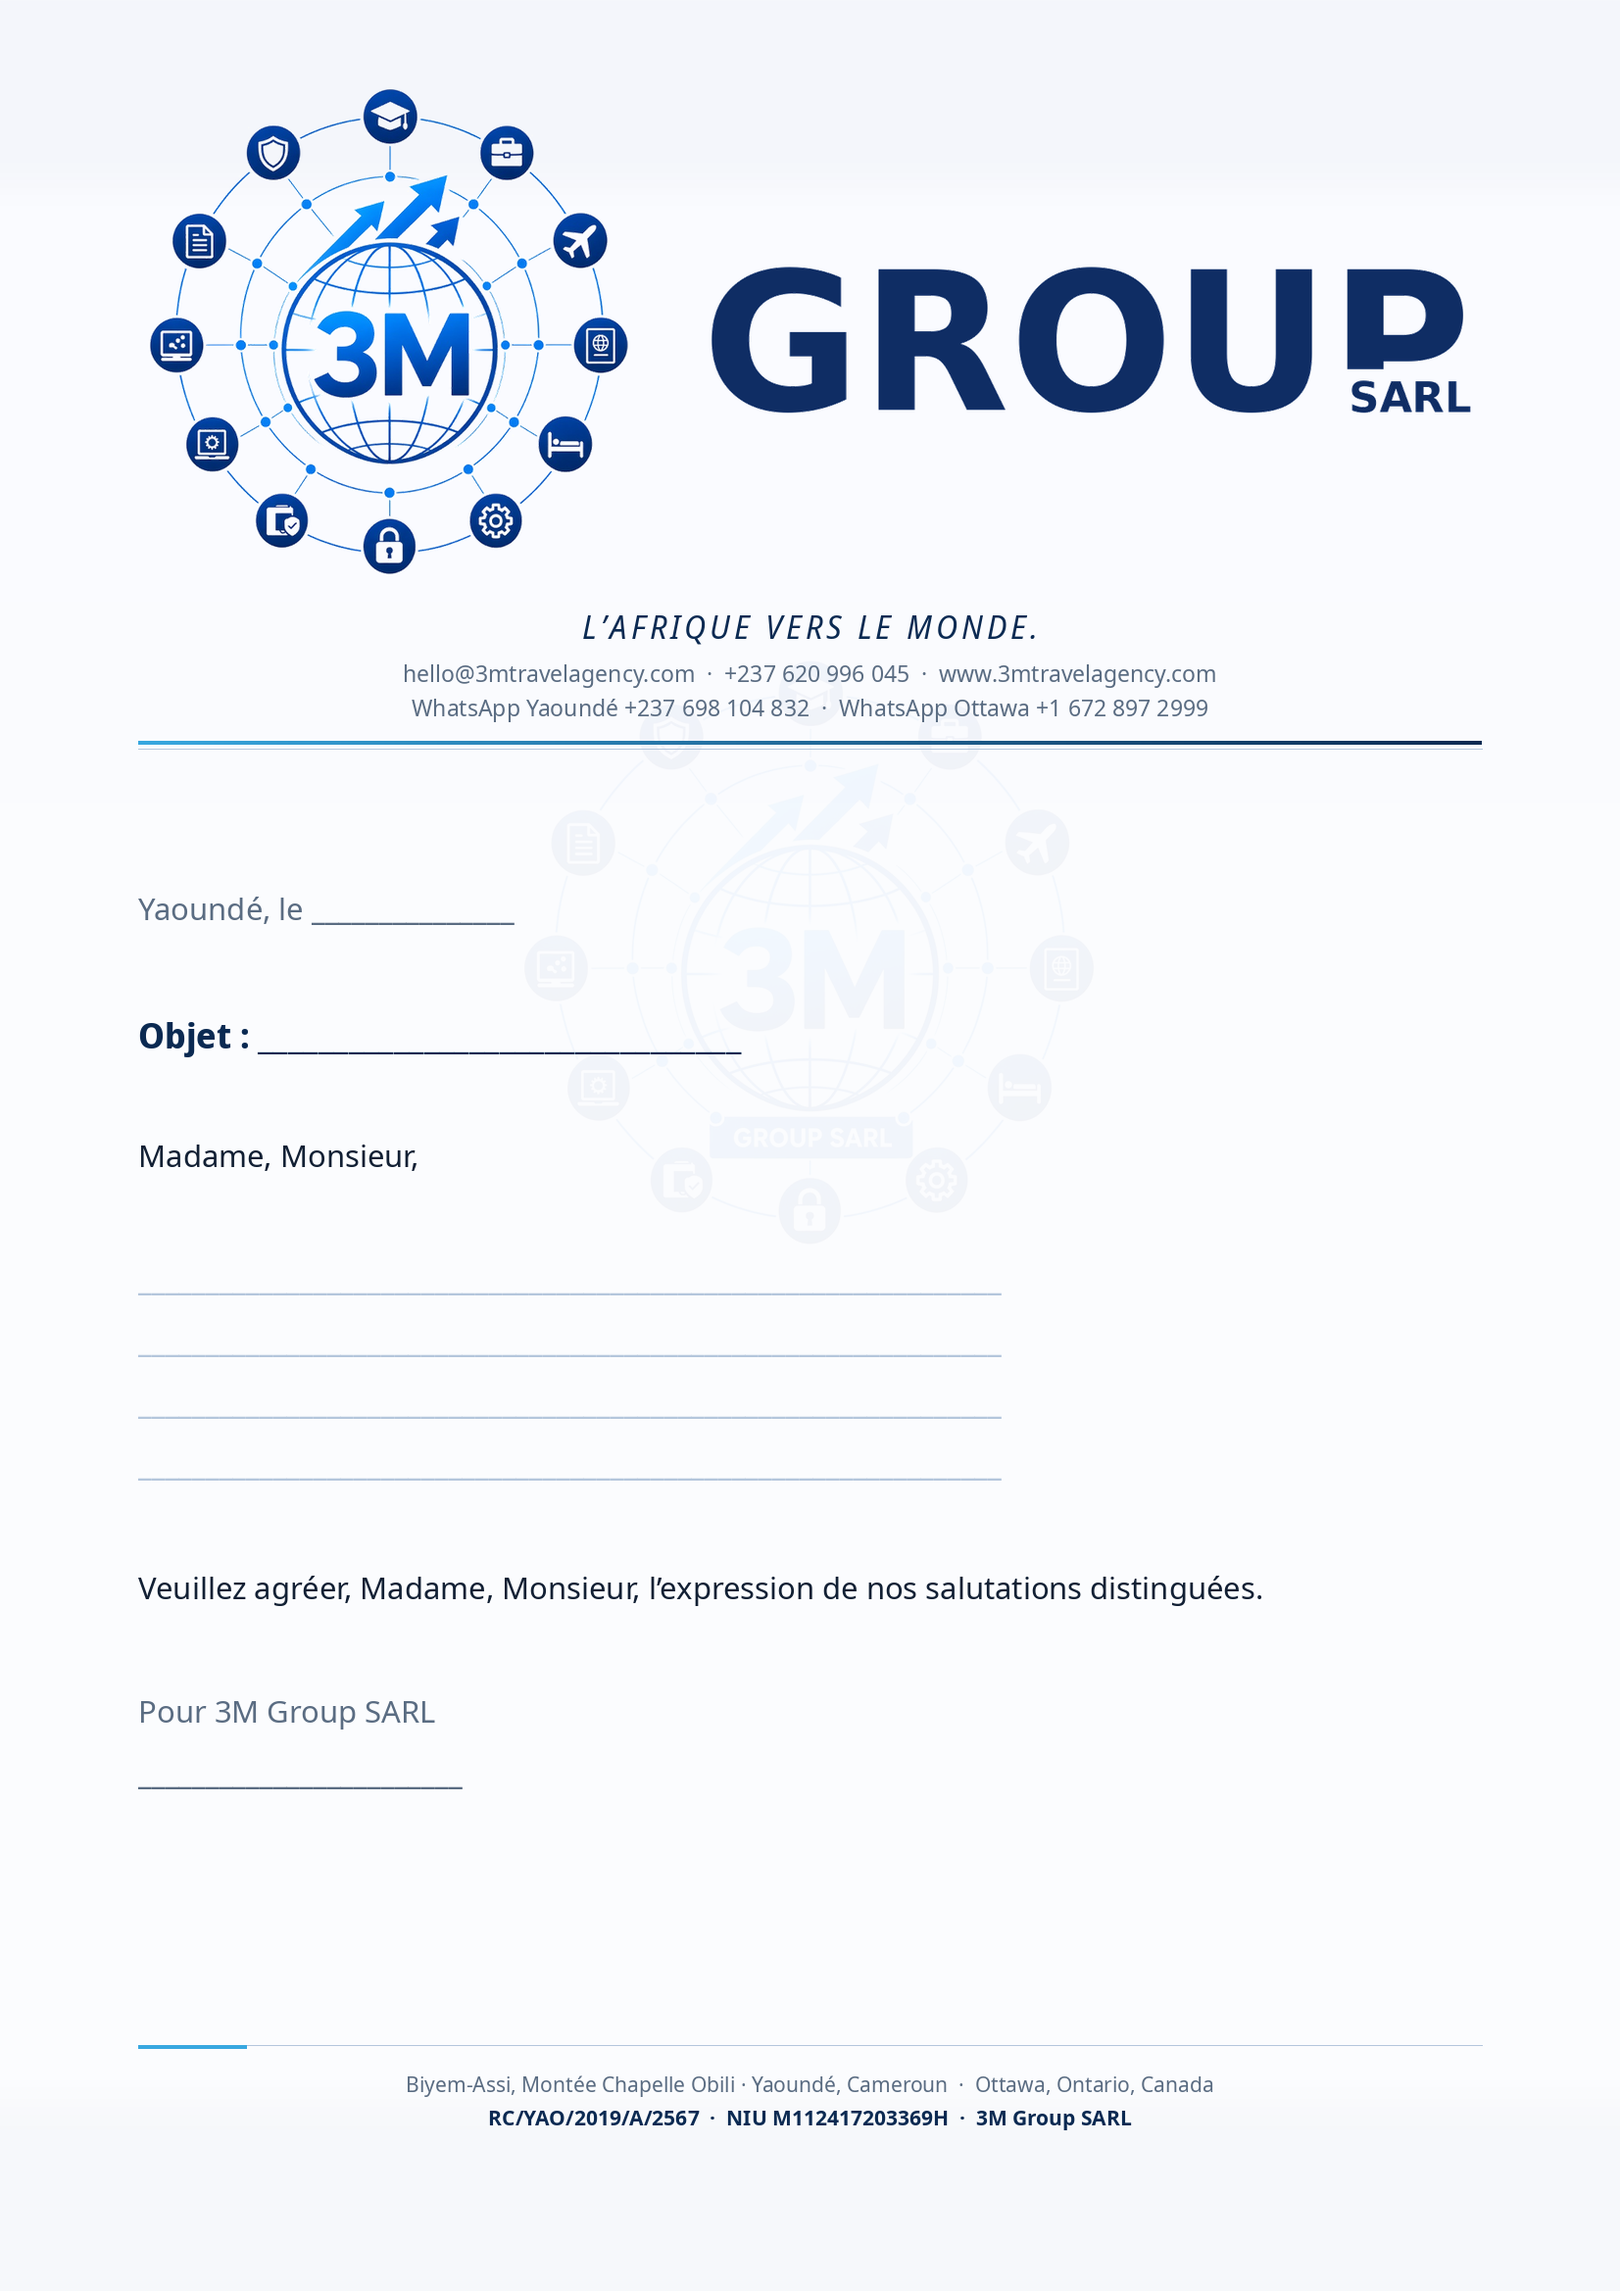
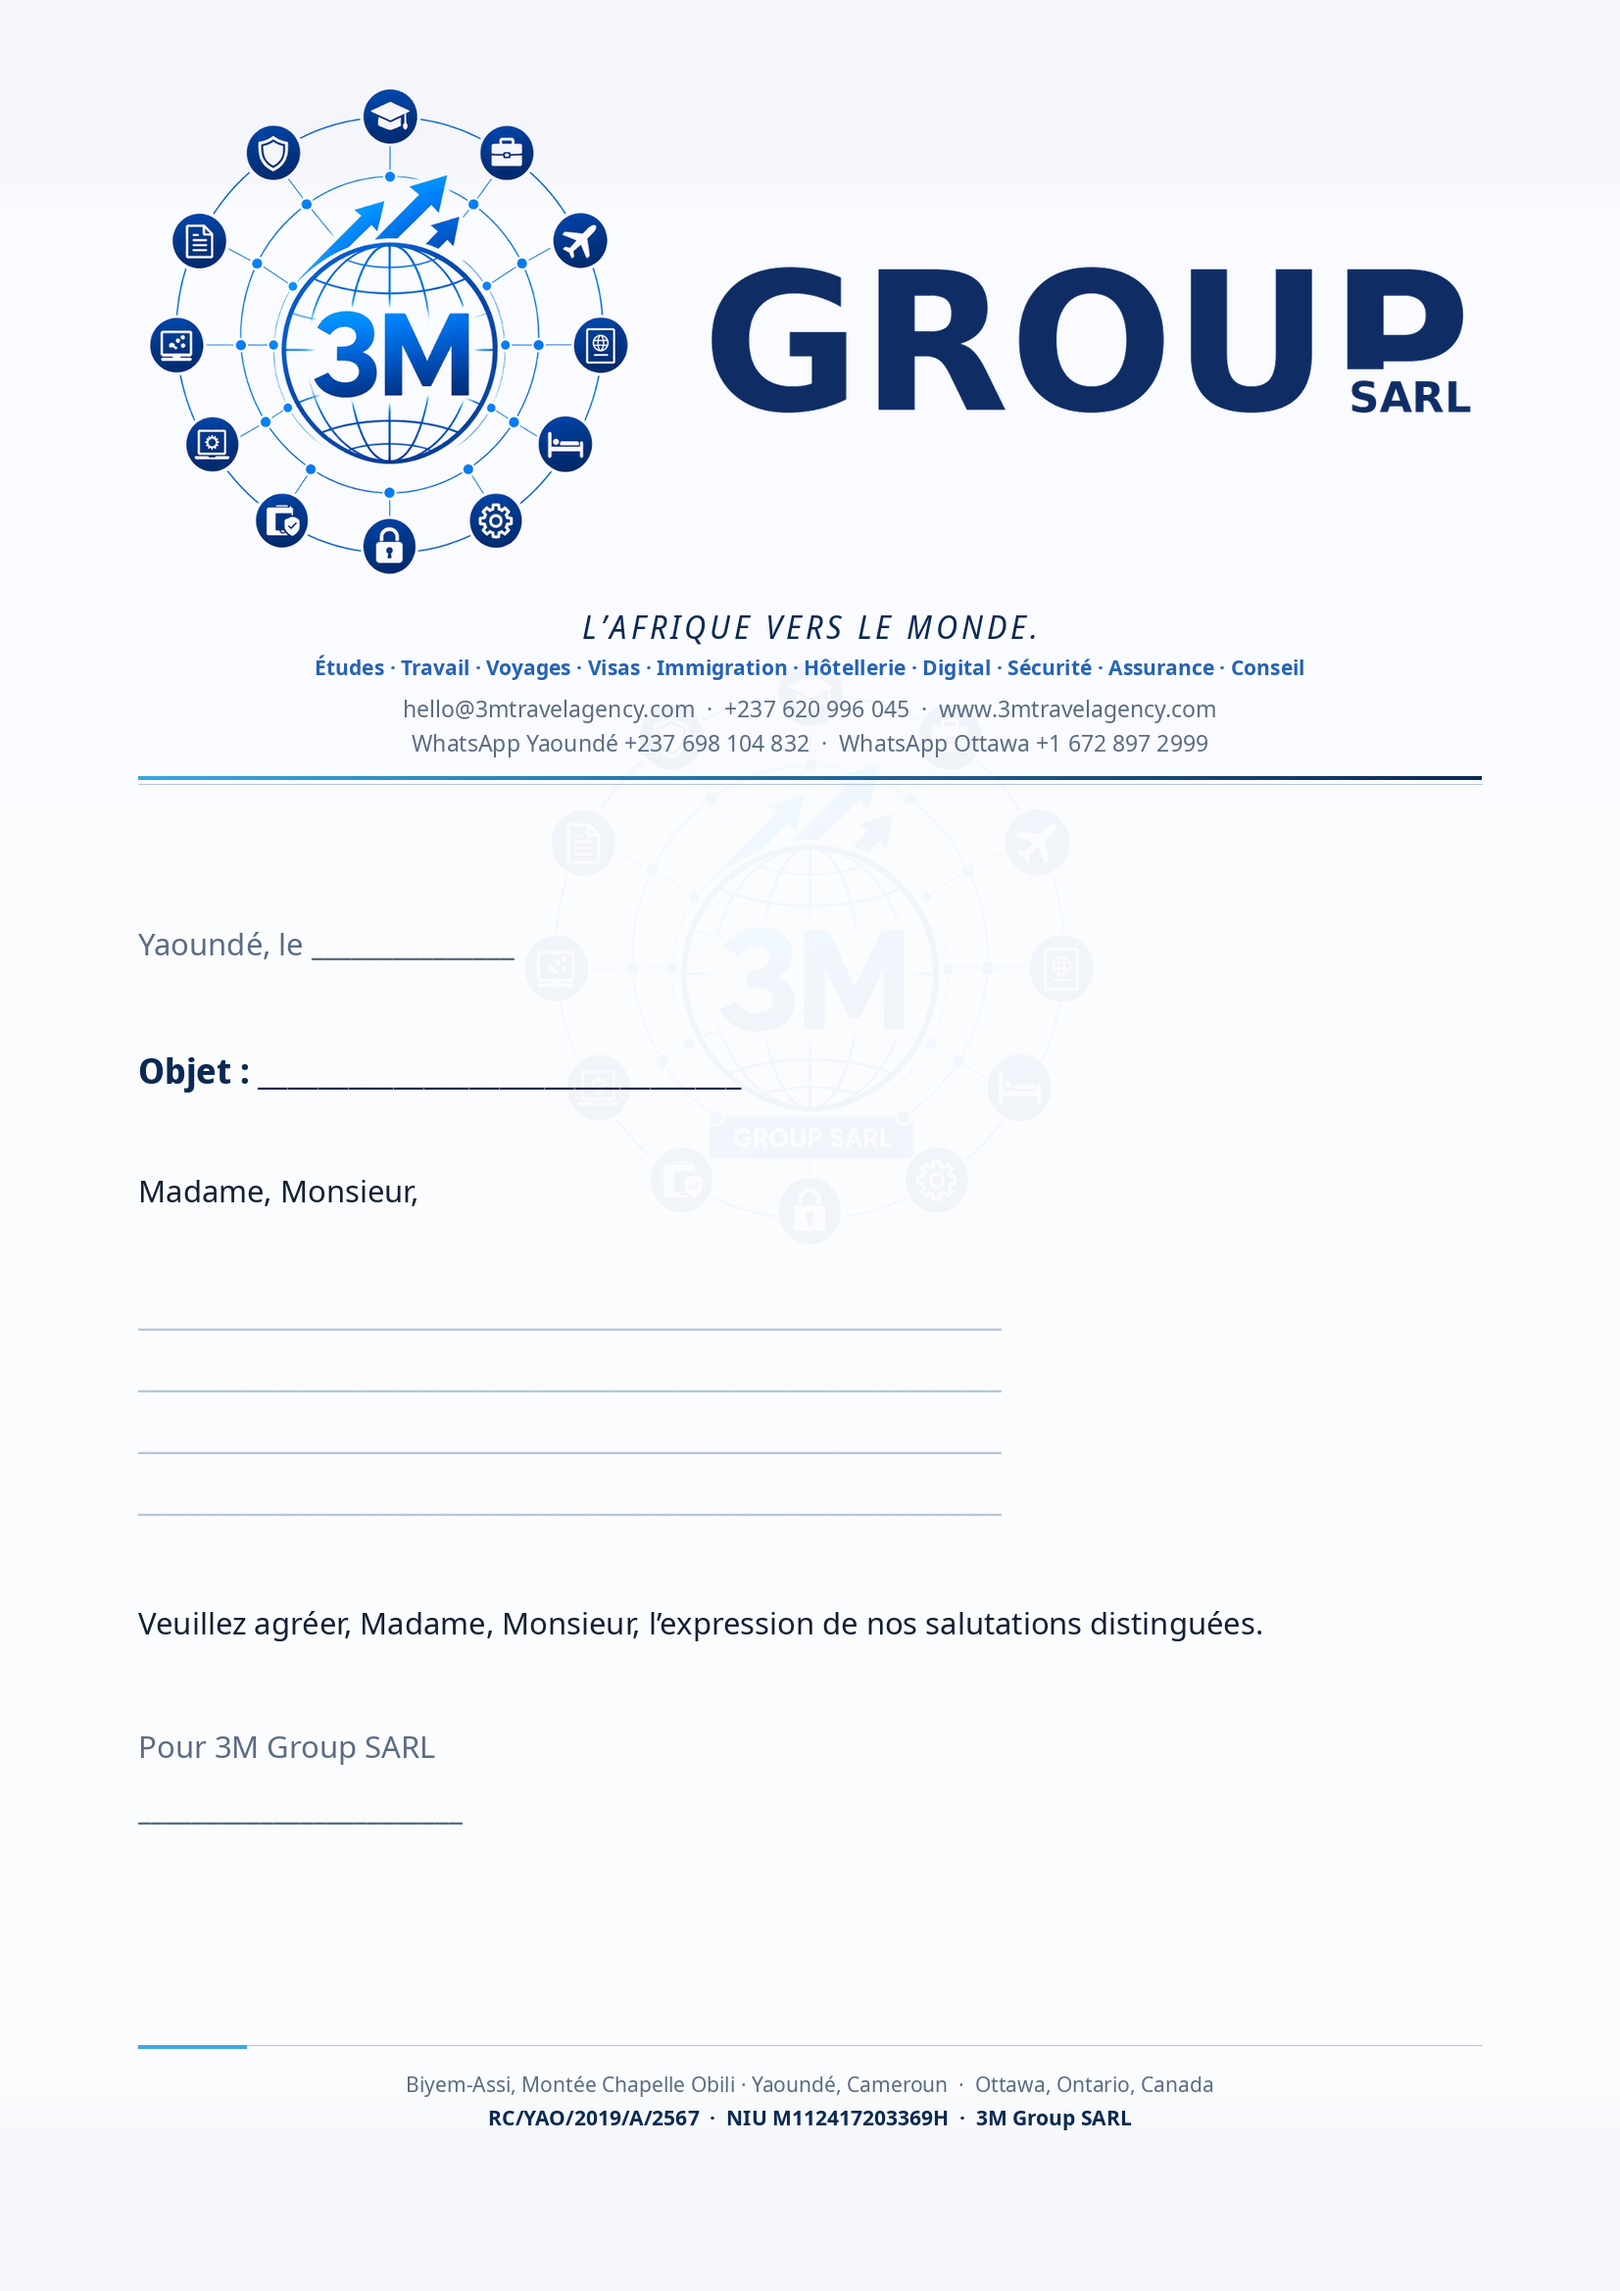
Ajouter les services du groupe dans l’en-tête du papier à lettres.
Bandeau Études · Travail · Voyages · Visas · Immigration · Hôtellerie · Digital · Sécurité · Assurance · Conseil sous la devise.

diff --git a/client/src/lib/companyContacts.ts b/client/src/lib/companyContacts.ts
@@ -23,6 +23,10 @@ export const GROUP_LEGAL_NAME = "3M Group SARL";
 /** Devise de marque du groupe (papier en-tête, kit brand) — alignée sur INTERNATIONAL_BRAND.slogan. */
 export const GROUP_BRAND_MOTTO = "L’Afrique vers le monde.";
 
+/** Pôles de services du groupe — ligne d’en-tête papier en-tête / kit brand. */
+export const GROUP_SERVICES_LINE =
+  "Études · Travail · Voyages · Visas · Immigration · Hôtellerie · Digital · Sécurité · Assurance · Conseil";
+
 /** Fondateur & PDG — source canonique pour SEO, JSON-LD et pages publiques. */
 export const COMPANY_FOUNDER = {
   name: "Aureol DONFACK",

diff --git a/scripts/generate_letterhead.py b/scripts/generate_letterhead.py
@@ -38,6 +38,12 @@ FONT_ITALIC = "/usr/share/fonts/truetype/noto/NotoSansDisplay-Italic.ttf"
 # Devise de marque (alignée sur INTERNATIONAL_BRAND.slogan)
 BRAND_MOTTO = "L’Afrique vers le monde."
 
+# Services du groupe (emblème multi-pôles — labels pour l’en-tête)
+GROUP_SERVICES = (
+    "Études · Travail · Voyages · Visas · Immigration · "
+    "Hôtellerie · Digital · Sécurité · Assurance · Conseil"
+)
+
 # Contact block (GROUP letterhead — parent entity)
 LINES_RIGHT = [
     "hello@3mtravelagency.com",
@@ -104,6 +110,7 @@ def load_fonts(scale: float):
     return {
         "contact": f(FONT_REG, 9.5),
         "contact_sm": f(FONT_REG, 8.2),
+        "services": f(FONT_BOLD, 7.6),
         "motto": f(FONT_ITALIC, 11.5),
         "footer": f(FONT_REG, 7.4),
         "footer_bold": f(FONT_BOLD, 7.4),
@@ -238,12 +245,33 @@ def render_letterhead_png(
     )
     motto_bottom = motto_y + fonts["motto"].size
 
-    # Contact meta strip under the motto
+    # Services — bandeau sous la devise
+    services_y = motto_bottom + int(2.2 / 25.4 * dpi)
+    tw = draw.textlength(GROUP_SERVICES, font=fonts["services"])
+    if tw > content_w:
+        # Split into two balanced lines if needed
+        parts = GROUP_SERVICES.split(" · ")
+        mid = (len(parts) + 1) // 2
+        svc_lines = [" · ".join(parts[:mid]), " · ".join(parts[mid:])]
+    else:
+        svc_lines = [GROUP_SERVICES]
+    svc_step = int(fonts["services"].size * 1.45)
+    for i, line in enumerate(svc_lines):
+        tw = draw.textlength(line, font=fonts["services"])
+        draw.text(
+            ((w - tw) / 2, services_y + i * svc_step),
+            line,
+            font=fonts["services"],
+            fill=ROYAL,
+        )
+    services_bottom = services_y + (len(svc_lines) - 1) * svc_step + fonts["services"].size
+
+    # Contact meta strip under the services
     meta_lines = [
         "hello@3mtravelagency.com  ·  +237 620 996 045  ·  www.3mtravelagency.com",
         "WhatsApp Yaoundé +237 698 104 832  ·  WhatsApp Ottawa +1 672 897 2999",
     ]
-    meta_y = motto_bottom + int(2.8 / 25.4 * dpi)
+    meta_y = services_bottom + int(2.6 / 25.4 * dpi)
     line_step = int(fonts["contact_sm"].size * 1.55)
     for i, line in enumerate(meta_lines):
         tw = draw.textlength(line, font=fonts["contact_sm"])
@@ -333,7 +361,8 @@ def write_svg(out_path: Path) -> None:
         logo_w = round(logo_h * aspect, 2)
     logo_x = round((210 - logo_w) / 2, 2)
     motto_y = 10 + logo_h + 5
-    meta_y1 = motto_y + 5
+    services_y = motto_y + 4.8
+    meta_y1 = services_y + 4.6
     meta_y2 = meta_y1 + 4.2
     rule_y = meta_y2 + 4.5
     hair_y = rule_y + 2.2
@@ -370,7 +399,12 @@ def write_svg(out_path: Path) -> None:
           letter-spacing="1.4">{motto_svg}</text>
   </g>
 
-  <!-- Contact meta under motto (Yaoundé + Ottawa) -->
+  <!-- Services -->
+  <g font-family="Noto Sans, Helvetica, Arial, sans-serif" text-anchor="middle">
+    <text x="105" y="{services_y}" font-size="2.7" font-weight="700" fill="#2563B4">{GROUP_SERVICES}</text>
+  </g>
+
+  <!-- Contact meta under services (Yaoundé + Ottawa) -->
   <g font-family="Noto Sans, Helvetica, Arial, sans-serif" text-anchor="middle">
     <text x="105" y="{meta_y1}" font-size="2.85" fill="#5A6C82">hello@3mtravelagency.com  ·  +237 620 996 045  ·  www.3mtravelagency.com</text>
     <text x="105" y="{meta_y2}" font-size="2.85" fill="#5A6C82">WhatsApp Yaoundé +237 698 104 832  ·  WhatsApp Ottawa +1 672 897 2999</text>
@@ -443,10 +477,16 @@ def write_pdf(out_path: Path, preview_png: Path) -> None:
         c.drawString(x, motto_y, ch)
         x += cw + gap
 
-    # Contact meta under motto (Yaoundé + Ottawa)
+    # Services under motto
+    c.setFillColorRGB(*[x / 255 for x in ROYAL])
+    c.setFont("NotoBold", 7)
+    services_y = motto_y - 4.5 * mm
+    c.drawCentredString(page_w / 2, services_y, GROUP_SERVICES)
+
+    # Contact meta under services (Yaoundé + Ottawa)
     c.setFillColorRGB(*[x / 255 for x in MUTED])
     c.setFont("Noto", 7.2)
-    meta_y1 = motto_y - 4.8 * mm
+    meta_y1 = services_y - 4.5 * mm
     meta_y2 = meta_y1 - 4.0 * mm
     c.drawCentredString(
         page_w / 2,
